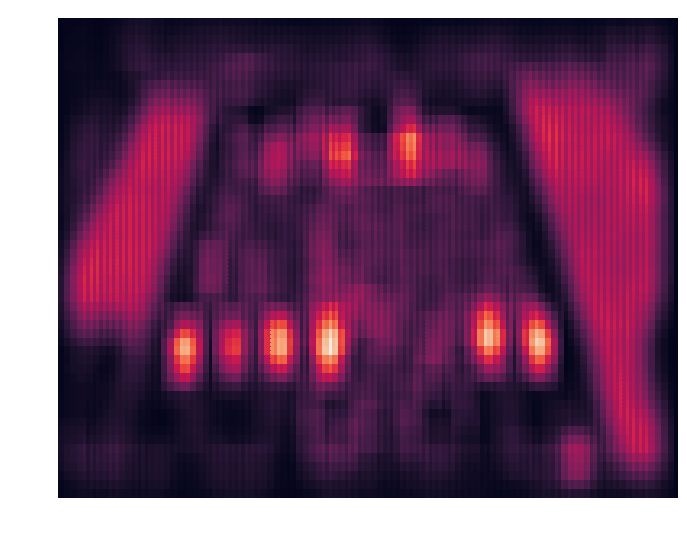
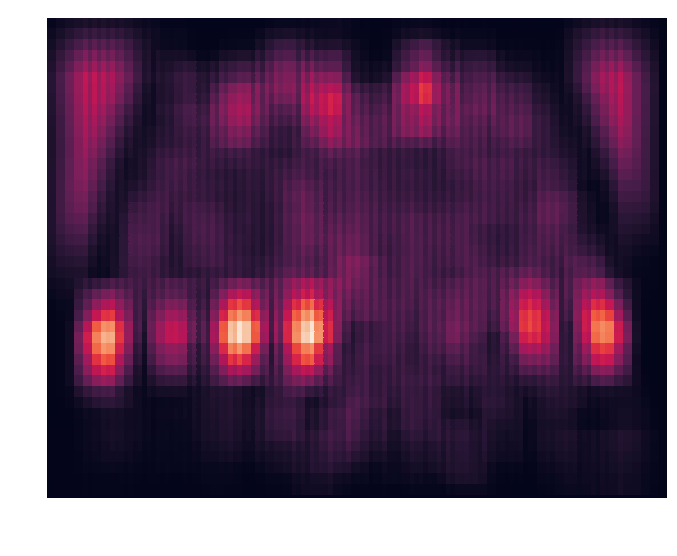
Fixed image cropping

diff --git a/main2.py b/main2.py
@@ -125,12 +125,12 @@ def visualise_heatmap(img, heatmap, countmap):
 def crop_image(points, img):
     # TODO
 	# Investigate exact values for these margins later
-	left = int(points[0][0]-20)
+	left = int(points[72][0]-20)
 	right = int(points[80][0]+20)
-	top = int(points[0][1]-100)
-	bottom = int(points[80][1]+20)
+	top = int(points[0][1]-70)
+	bottom = int(points[80][1]+40)
 
-	return img[left:right][top:bottom]
+	return img[top:bottom, left:right]
 
 def create_chess_square_points(chessboard_keypoints):
 	keypoints = chessboard_keypoints.reshape(9,9,2)
@@ -155,12 +155,16 @@ chessboard_keypoints = get_keypoints(imgpath)[0]
 
 chess_square_points = create_chess_square_points(chessboard_keypoints)
 
-img = cv2.imread(imgpath, 0)
+img = cv2.imread(imgpath)
 img = crop_image(chessboard_keypoints, img)
+print np.shape(img)
 
-window_y = 100
-window_x = 100
-stepSize = 25
+cv2.imshow("Cropped Image", img)
+cv2.waitKey(0)
+
+window_y = 120
+window_x = 90
+stepSize = 20
 heatmap, countmap = create_heatmap(img, stepSize, (window_x, window_y), model_path)
 
 chess_squares = create_chess_squares(chess_square_points, heatmap, countmap)
